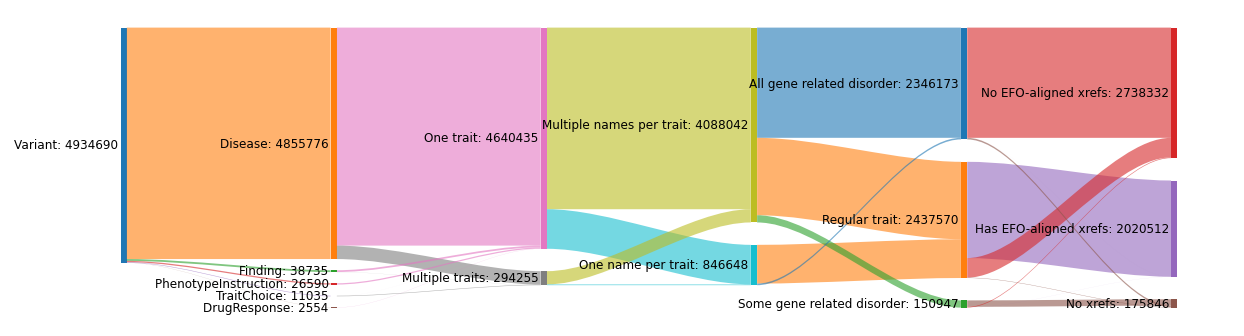
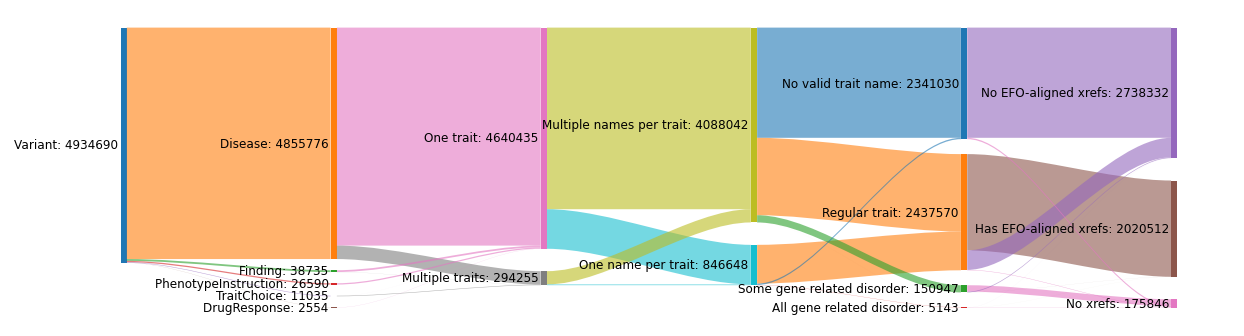
fix trait quality diagram

Changed region(s): [[0.5804, 0.0595, 0.9469, 0.9524], [0.6415, 0.4167, 0.7026, 0.4464]]

diff --git a/data-exploration/clinvar-variant-types/clinvar-variant-types.py b/data-exploration/clinvar-variant-types/clinvar-variant-types.py
@@ -172,7 +172,7 @@ def main(clinvar_xml, process_items=None):
     # Sankey diagrams for visualisation
     sankey_variation_representation = SankeyDiagram('variant-types.png', 1200, 600)
     sankey_trait_representation = SankeyDiagram('traits.png', 1200, 400)
-    sankey_trait_quality = SankeyDiagram('trait-combined.png', 1500, 400)
+    sankey_trait_quality = SankeyDiagram('trait-quality.png', 1500, 400)
     sankey_clinical_classification = SankeyDiagram('clinical-classification.png', 1400, 800)
     sankey_somatic_classification = SankeyDiagram('somatic-classification.png', 1200, 400)
     sankey_star_rating = SankeyDiagram('star-rating.png', 1400, 800)
@@ -227,7 +227,7 @@ def main(clinvar_xml, process_items=None):
                 traits_category = 'Multiple traits'
             names_category = 'One name per trait'
             ontology_category = 'No xrefs'
-            trait_quality_category = 'Invalid trait name' if not clinvar_record.traits_with_valid_names else 'Regular trait'
+            trait_quality_category = 'No valid trait name' if not clinvar_record.traits_with_valid_names else 'Regular trait'
             for trait in traits:
                 if len(trait.all_names) > 1:
                     names_category = 'Multiple names per trait'
@@ -240,7 +240,11 @@ def main(clinvar_xml, process_items=None):
                 # Count all xref sources for each trait
                 for db, _, _ in trait.xrefs:
                     counter_trait_xrefs.add_count(db)
-            if all('related disorder' in name for trait in traits for name in trait.all_valid_names):
+            if clinvar_record.traits_with_valid_names and all(
+                'related disorder' in name
+                for trait in clinvar_record.traits_with_valid_names
+                for name in trait.all_valid_names
+            ):
                 trait_quality_category = 'All gene related disorder'
 
             sankey_trait_representation.add_transitions('Variant', clinvar_record.trait_set_type, traits_category, names_category)
